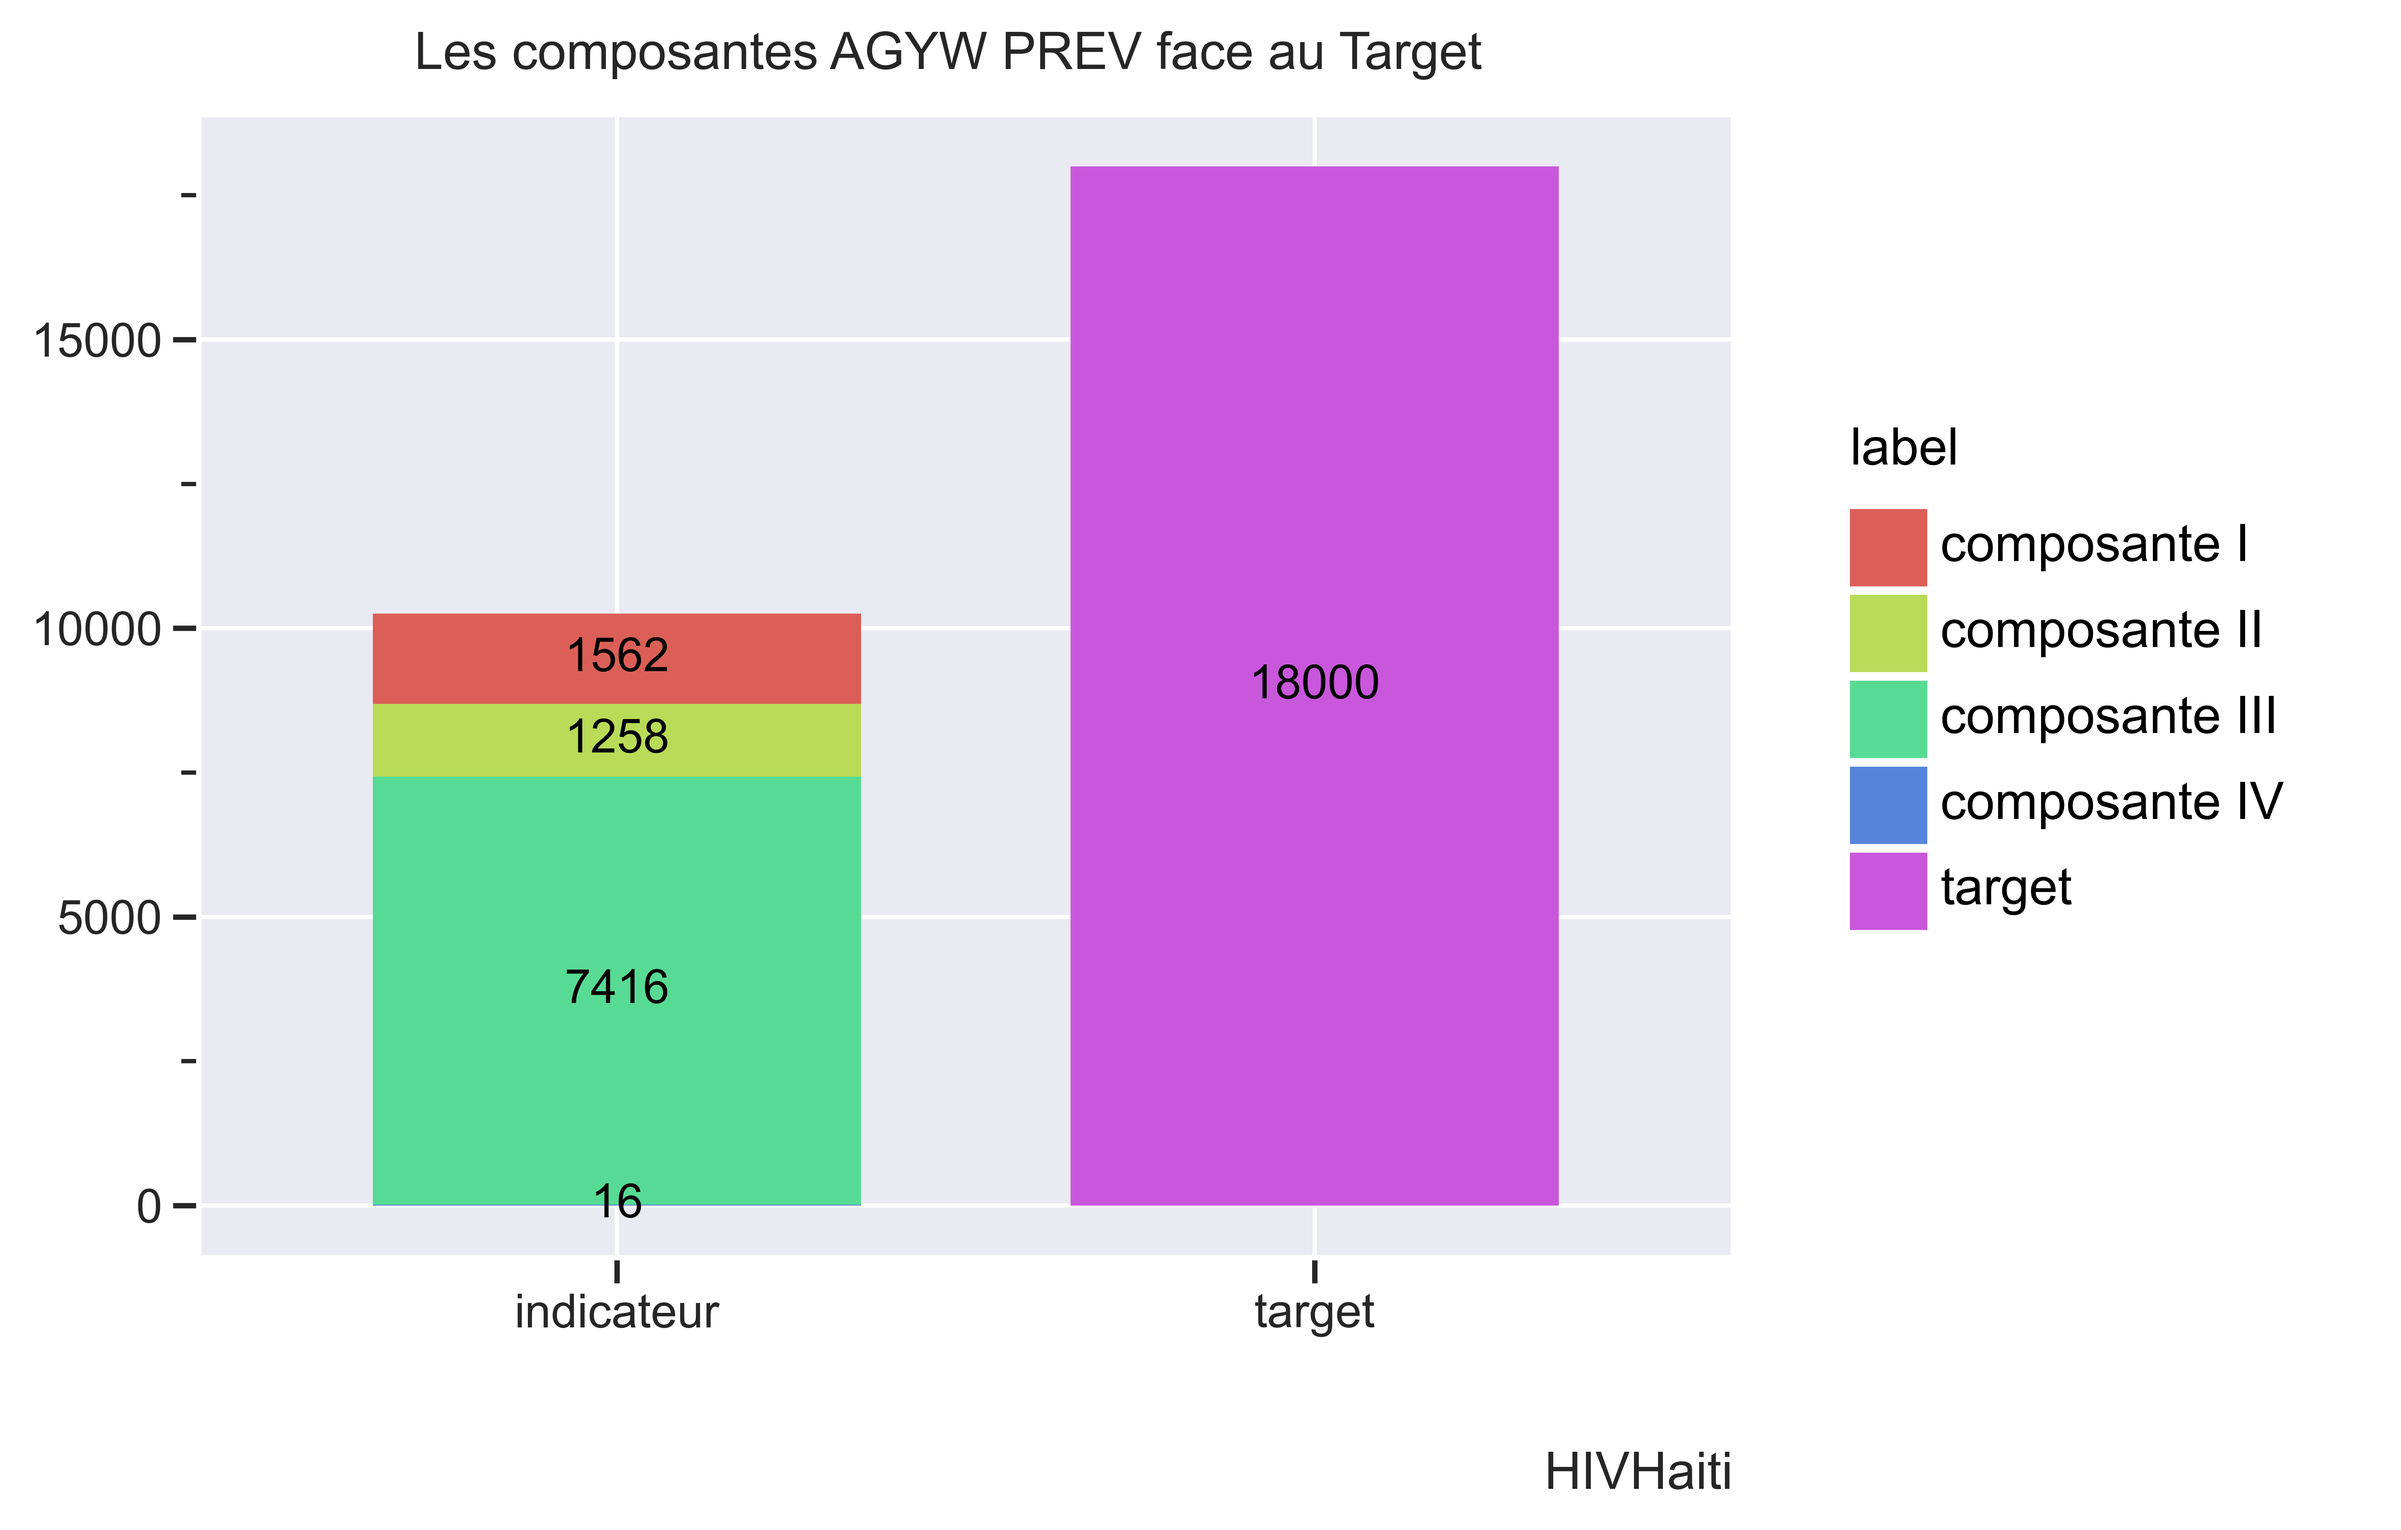
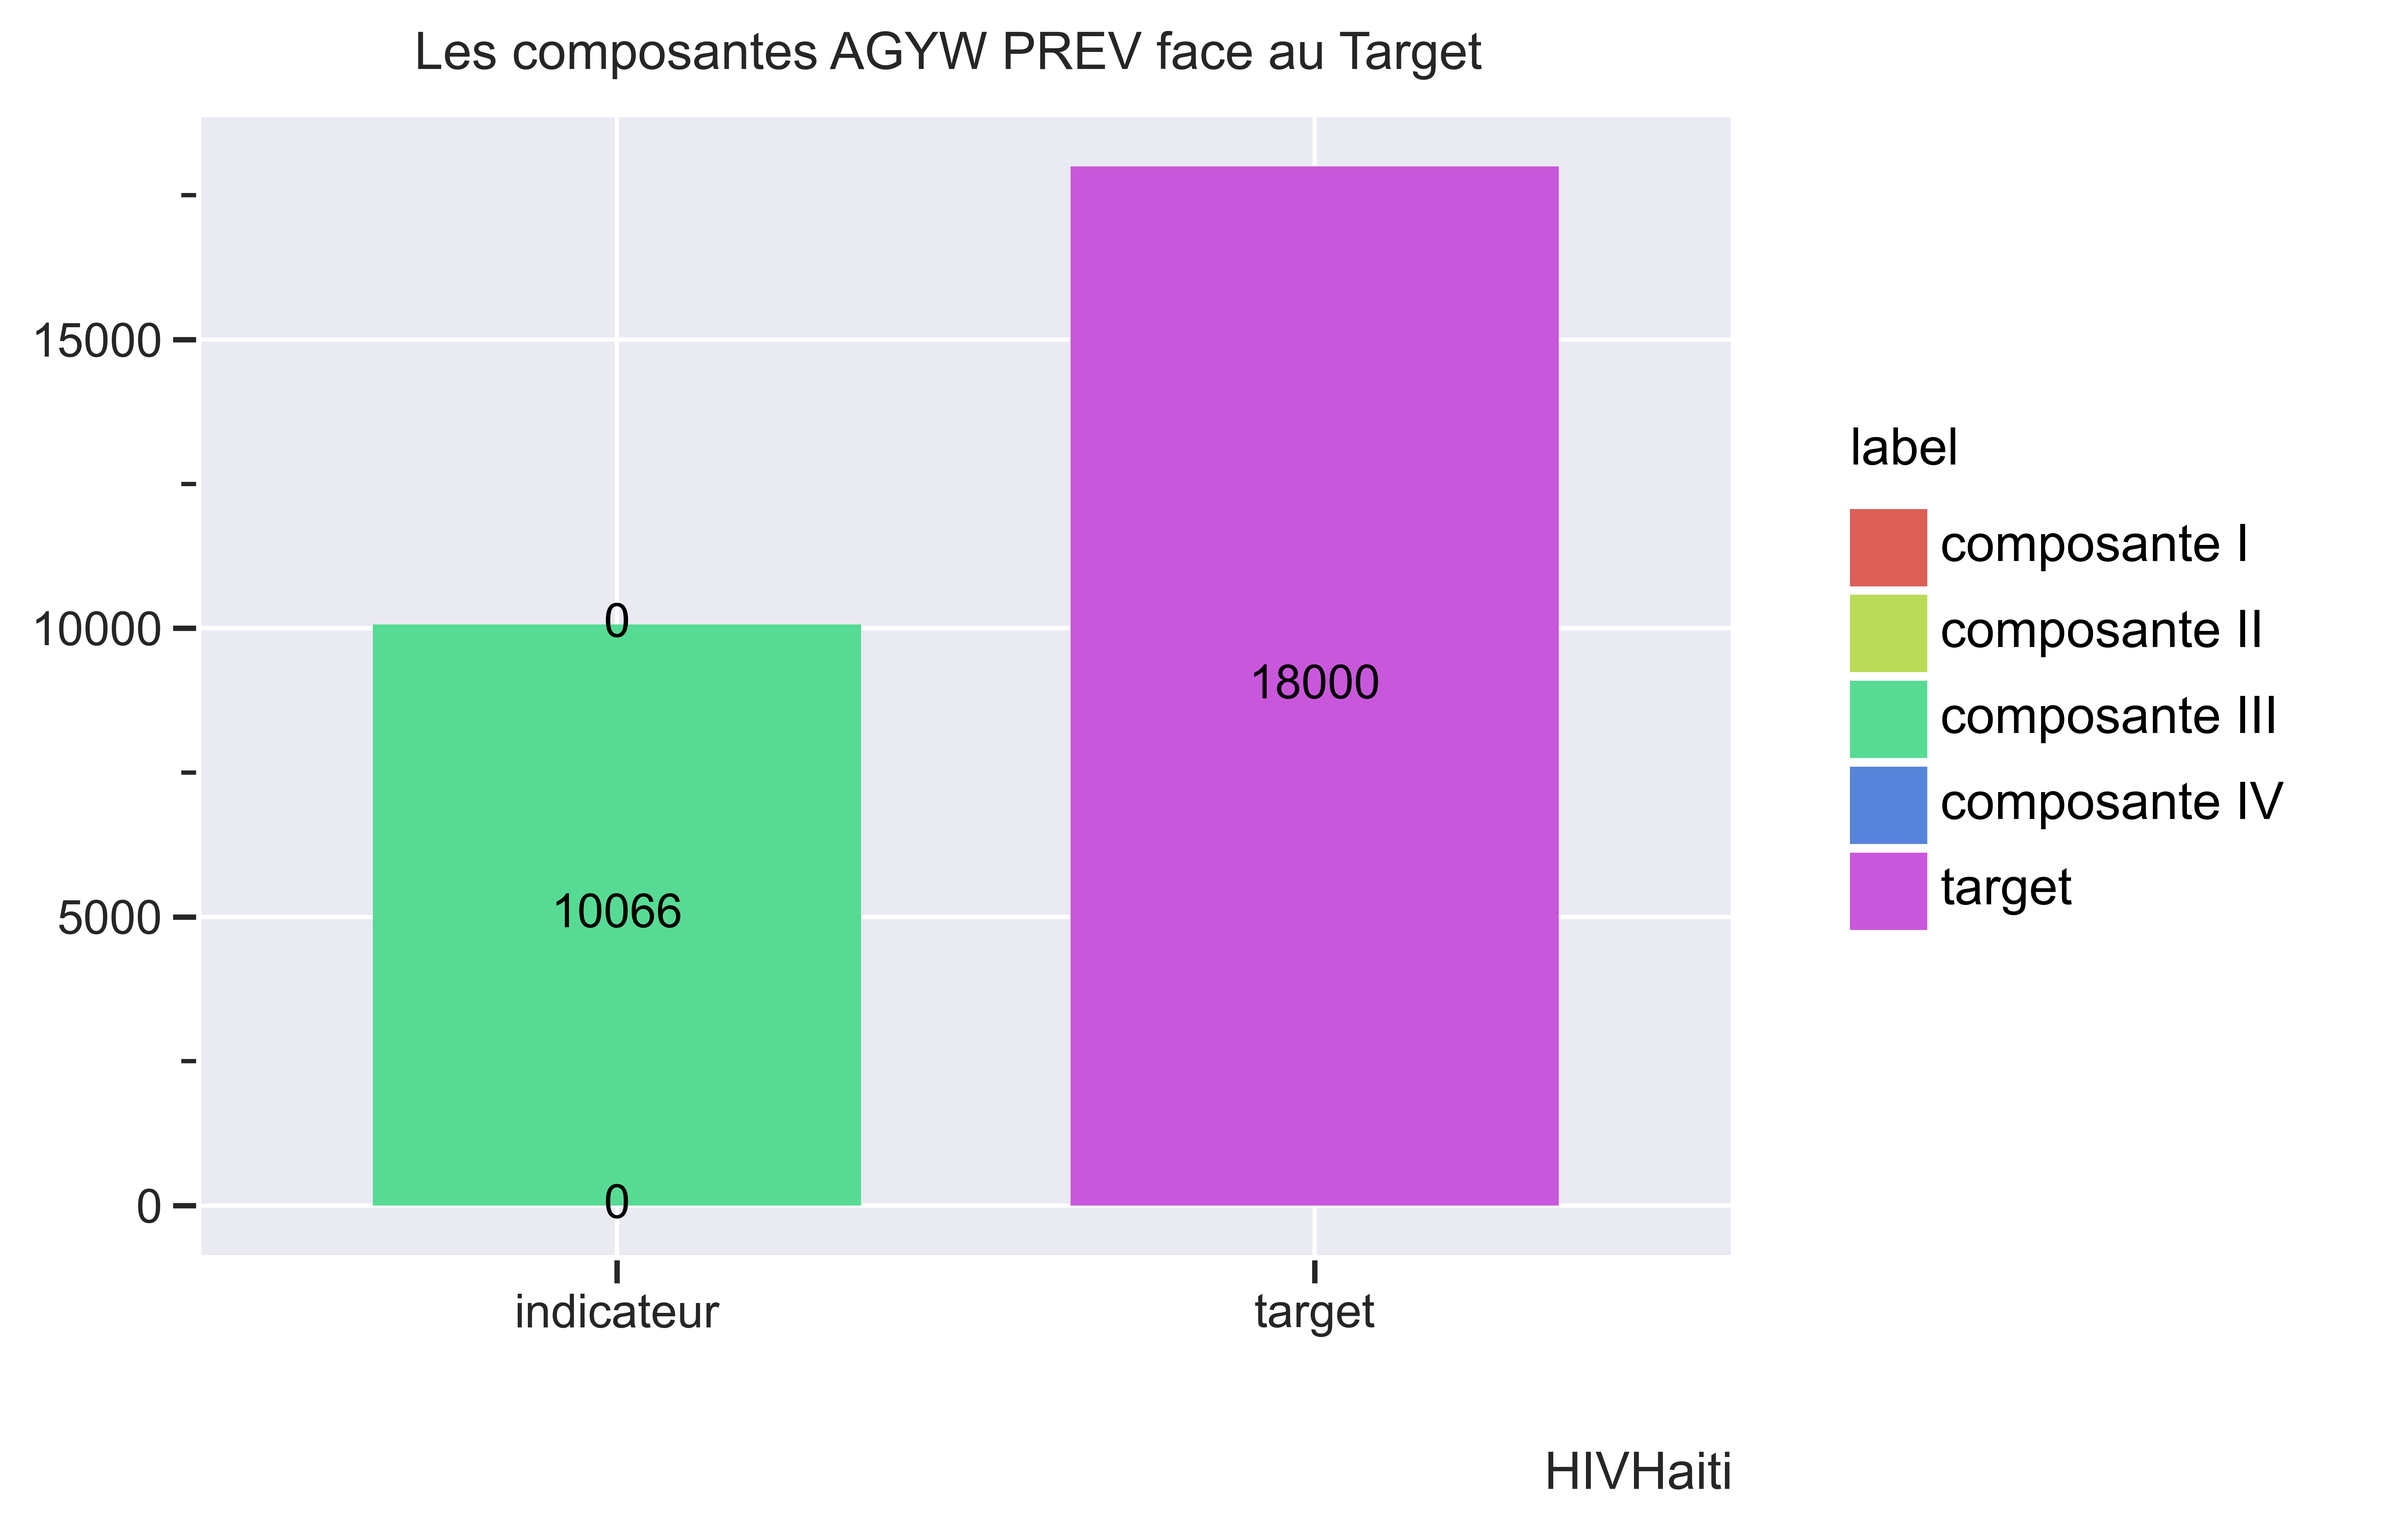
QUICK

Changed region(s): [[0.1559, 0.3736, 0.3742, 0.5292], [0.2495, 0.5915, 0.2807, 0.6537], [0.2495, 0.7782, 0.2807, 0.8094]]

diff --git a/data/v21/src/static/active.py b/data/v21/src/static/active.py
@@ -18,9 +18,9 @@ DBNAME = config('DBCaris')
 
 class Set_date(Enum):
     master_start = "2017-10-01"
-    master_end = "2020-11-31"
-    period_start = "2020-10-01"
-    period_end = "2020-11-31"
+    master_end = "2019-11-31"
+    period_start = "2019-10-01"
+    period_end = "2019-11-31"
 
 
 # get the engine to connect and fetch
